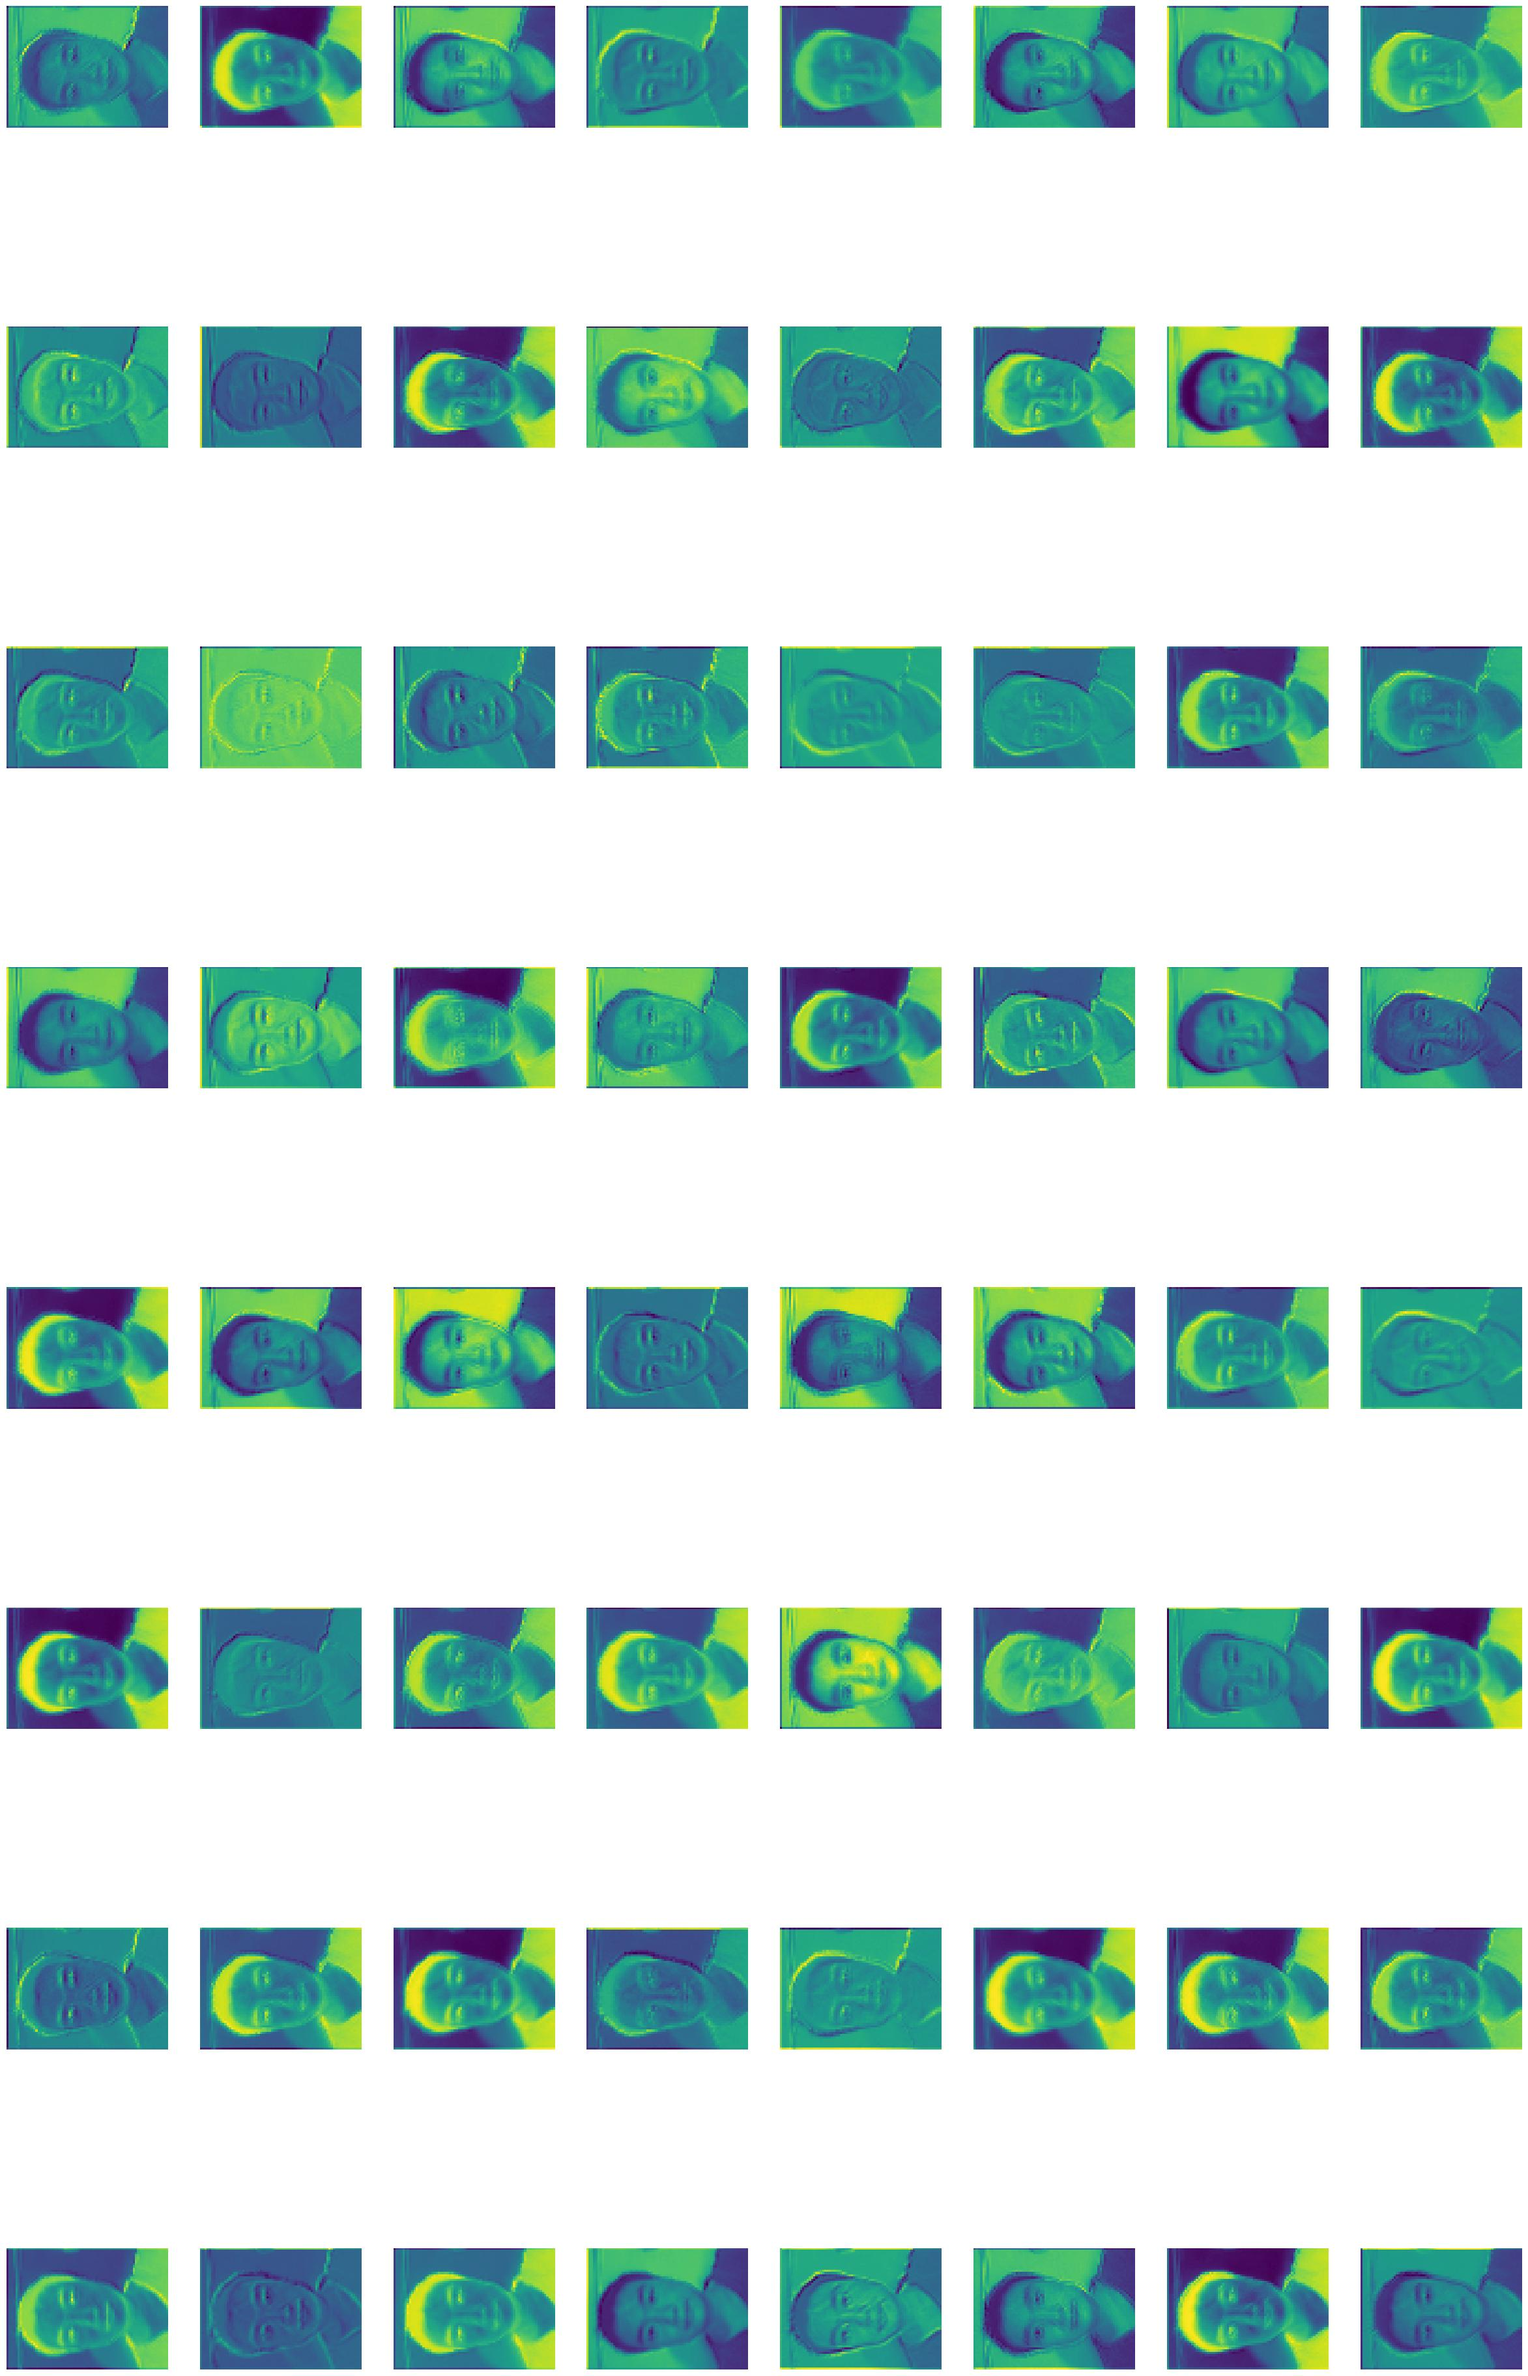
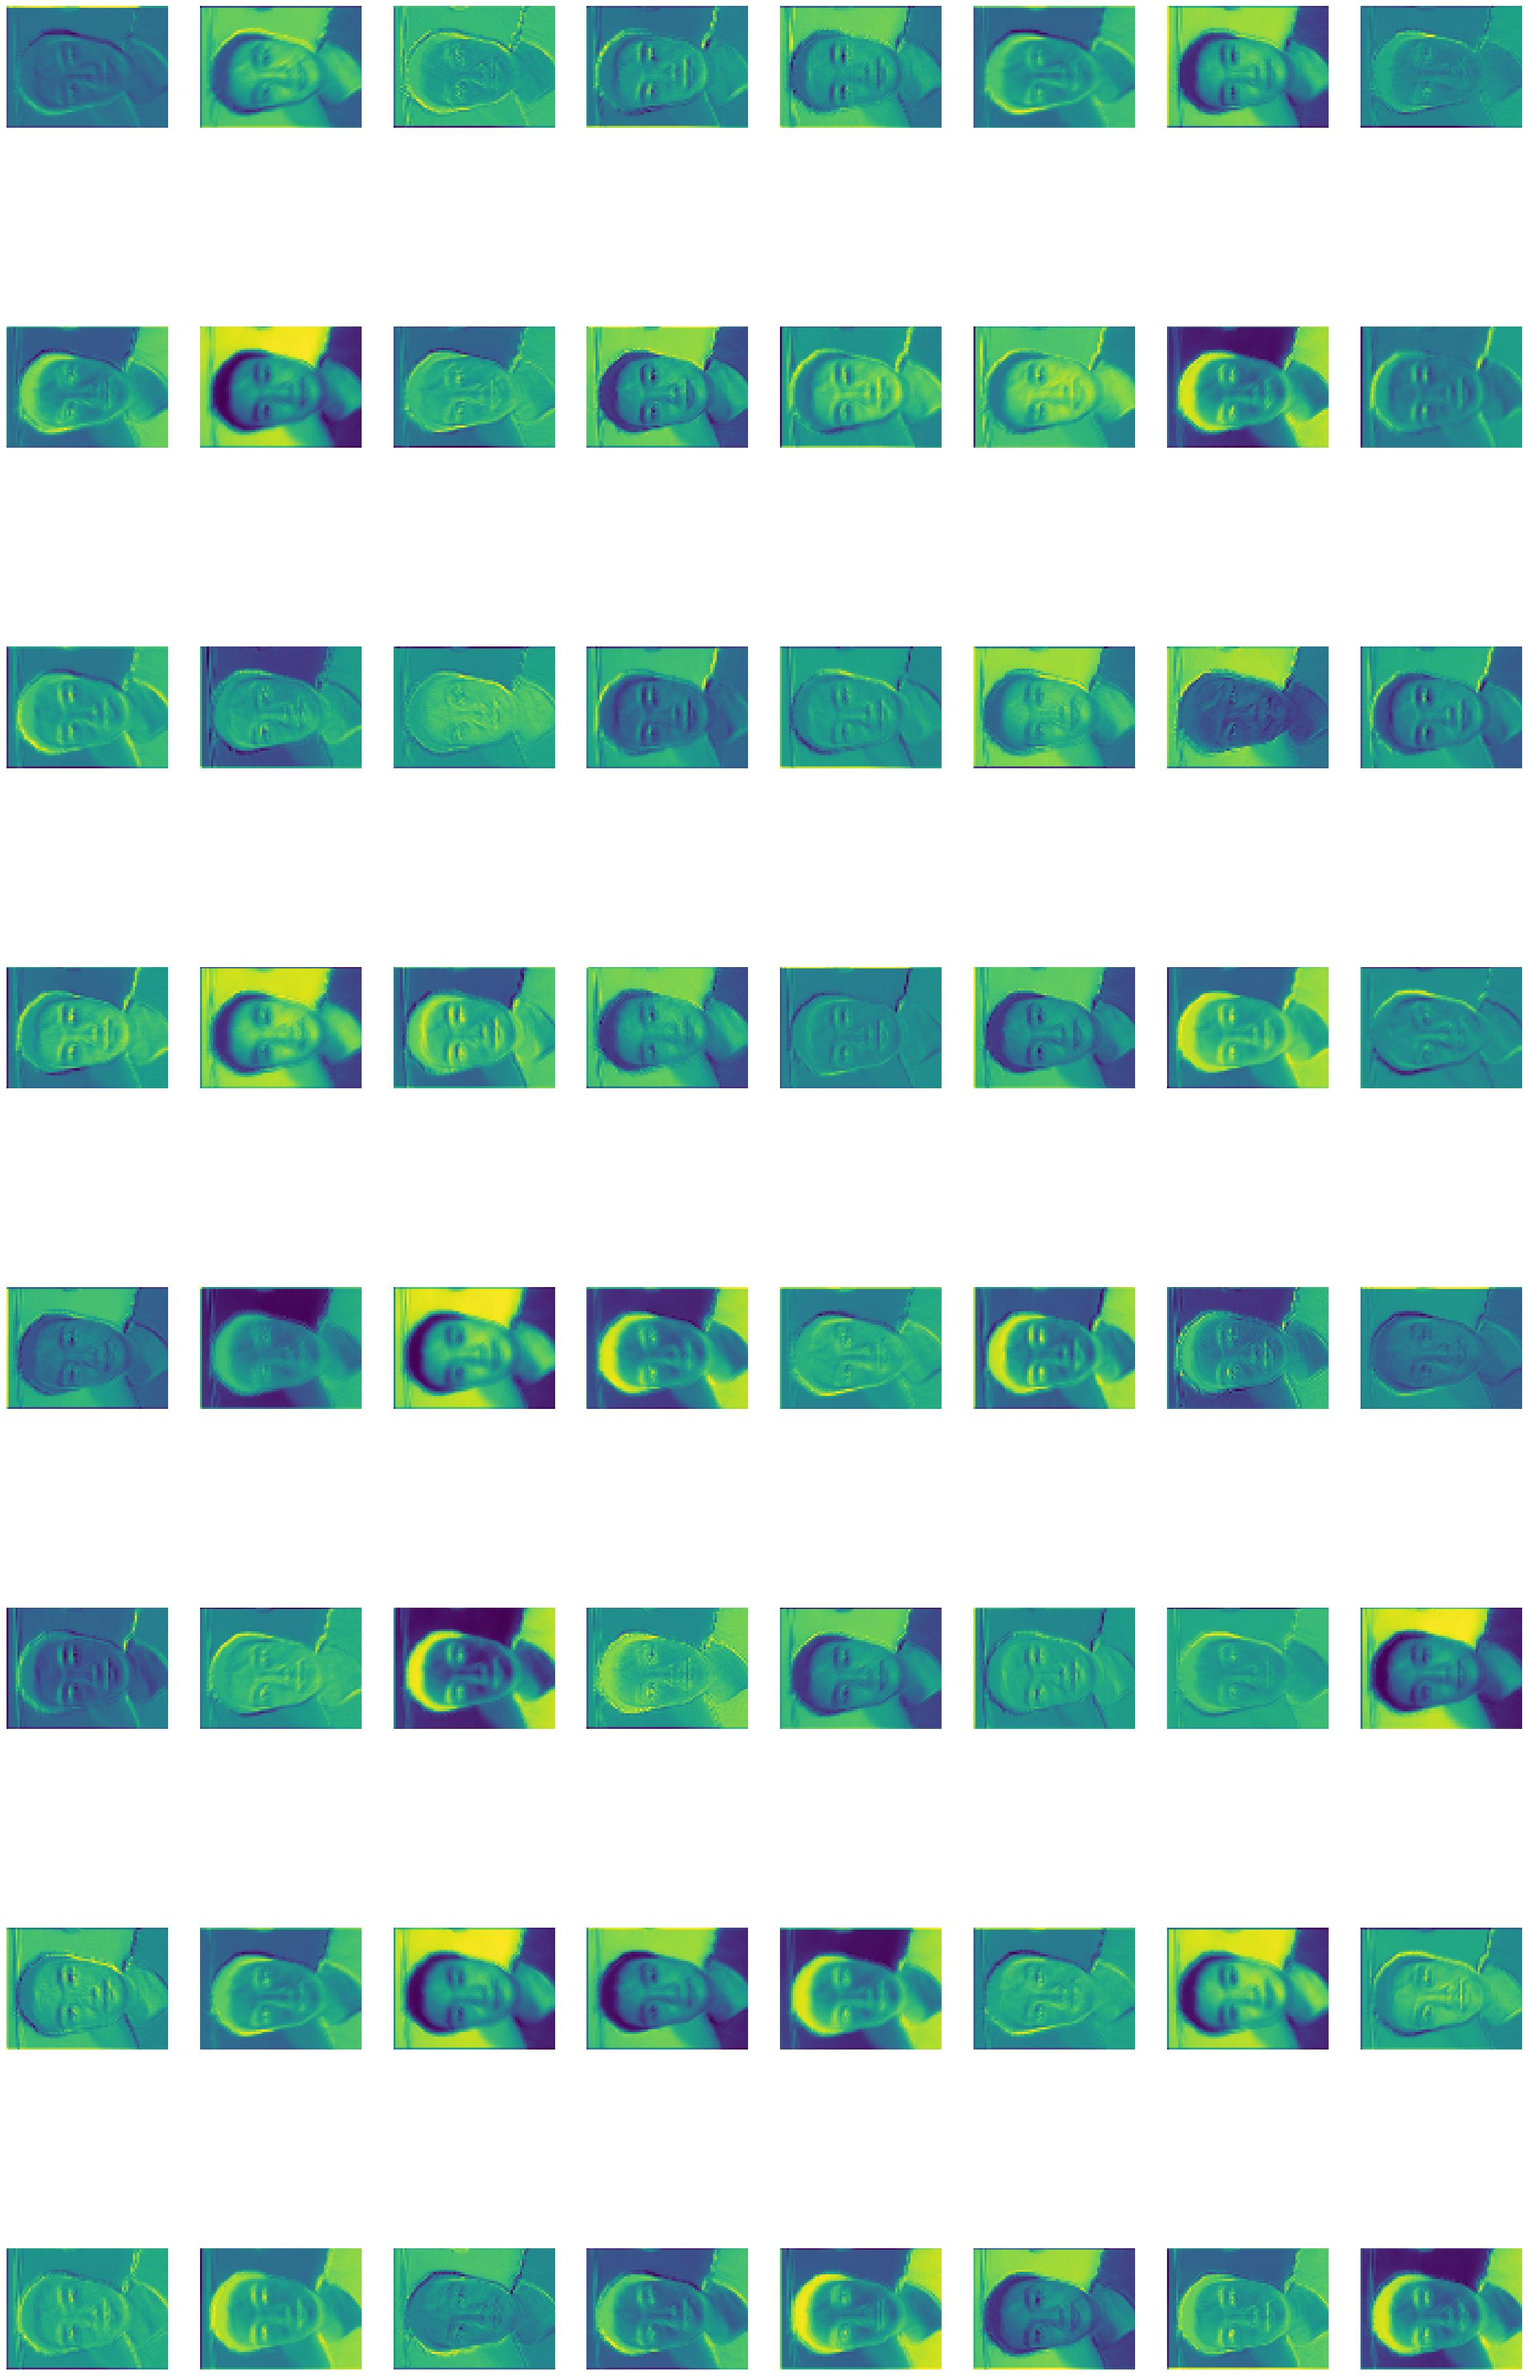
cnn-visual

diff --git a/visualization-of-cnn/visual_cnn/Example-02.py b/visualization-of-cnn/visual_cnn/Example-02.py
@@ -2,11 +2,13 @@ import torch
 from torch import nn
 import torchvision
 
+device = torch.device("cuda:0" if torch.cuda.is_available() else "cpu")
 print(torch.__version__)
 # model1 = torch.load(r'')
 
 # model1 = torchvision.models.resnet18(pretrained=True)
 model = torchvision.models.alexnet()
+mode1 = model.to(device)
 model.eval()
 from torchvision import transforms
 
@@ -22,10 +24,11 @@ import matplotlib.pyplot as plt
 
 img = Image.open(img_path)
 img = img.convert('RGB')
-img = transform(img)
+img = transform(img).to(device)
 img = img.unsqueeze(0)
 print(model.features[0])
 import numpy as np
+
 
 # with torch.no_grad():
 #     output = model.features[0](img)
@@ -38,18 +41,25 @@ import numpy as np
 #         im = Image.fromarray(img[0])
 #         im = im.convert('L')
 
-fig = plt.figure(figsize=(30, 50))
-with torch.no_grad():
-    output = model.features[0](img)
-    # for i in range(output.shape[1]):
-    for i in range(output.shape[1]):
-        img = output[:, i, :, :].squeeze(0).numpy()
-        min = np.min(img)
-        max = np.max(img)
-        img = (img - min) / (max - min)
-        img = img * 255
-        a = fig.add_subplot(8, 8, i + 1)
-        imgplt = plt.imshow(img)
-        a.axis('off')
+def saveFig(img, output, index):
+    with torch.no_grad():
+        fig = plt.figure(figsize=(30, 50))
+        for i in range(output.shape[1]):
+            img = output[:, i, :, :].squeeze(0).cpu().numpy()
+            min = np.min(img)
+            max = np.max(img)
+            img = (img - min) / (max - min)
+            img = img * 255
+            a = fig.add_subplot(8, output.shape[1] // 8, i + 1)
+            imgplt = plt.imshow(img)
+            a.axis('off')
+        plt.savefig("FeatureMap2/feature_maps" + str(index) + ".jpg", bbox_inches='tight')
 
-plt.savefig(str('feature_maps2.jpg'), bbox_inches='tight')
+
+featureCNN = model.features
+index = 1
+for child in featureCNN:
+    img = child(img)
+    if type(child) == nn.Conv2d:
+        saveFig(child, output=img, index=index)
+    index += 1
